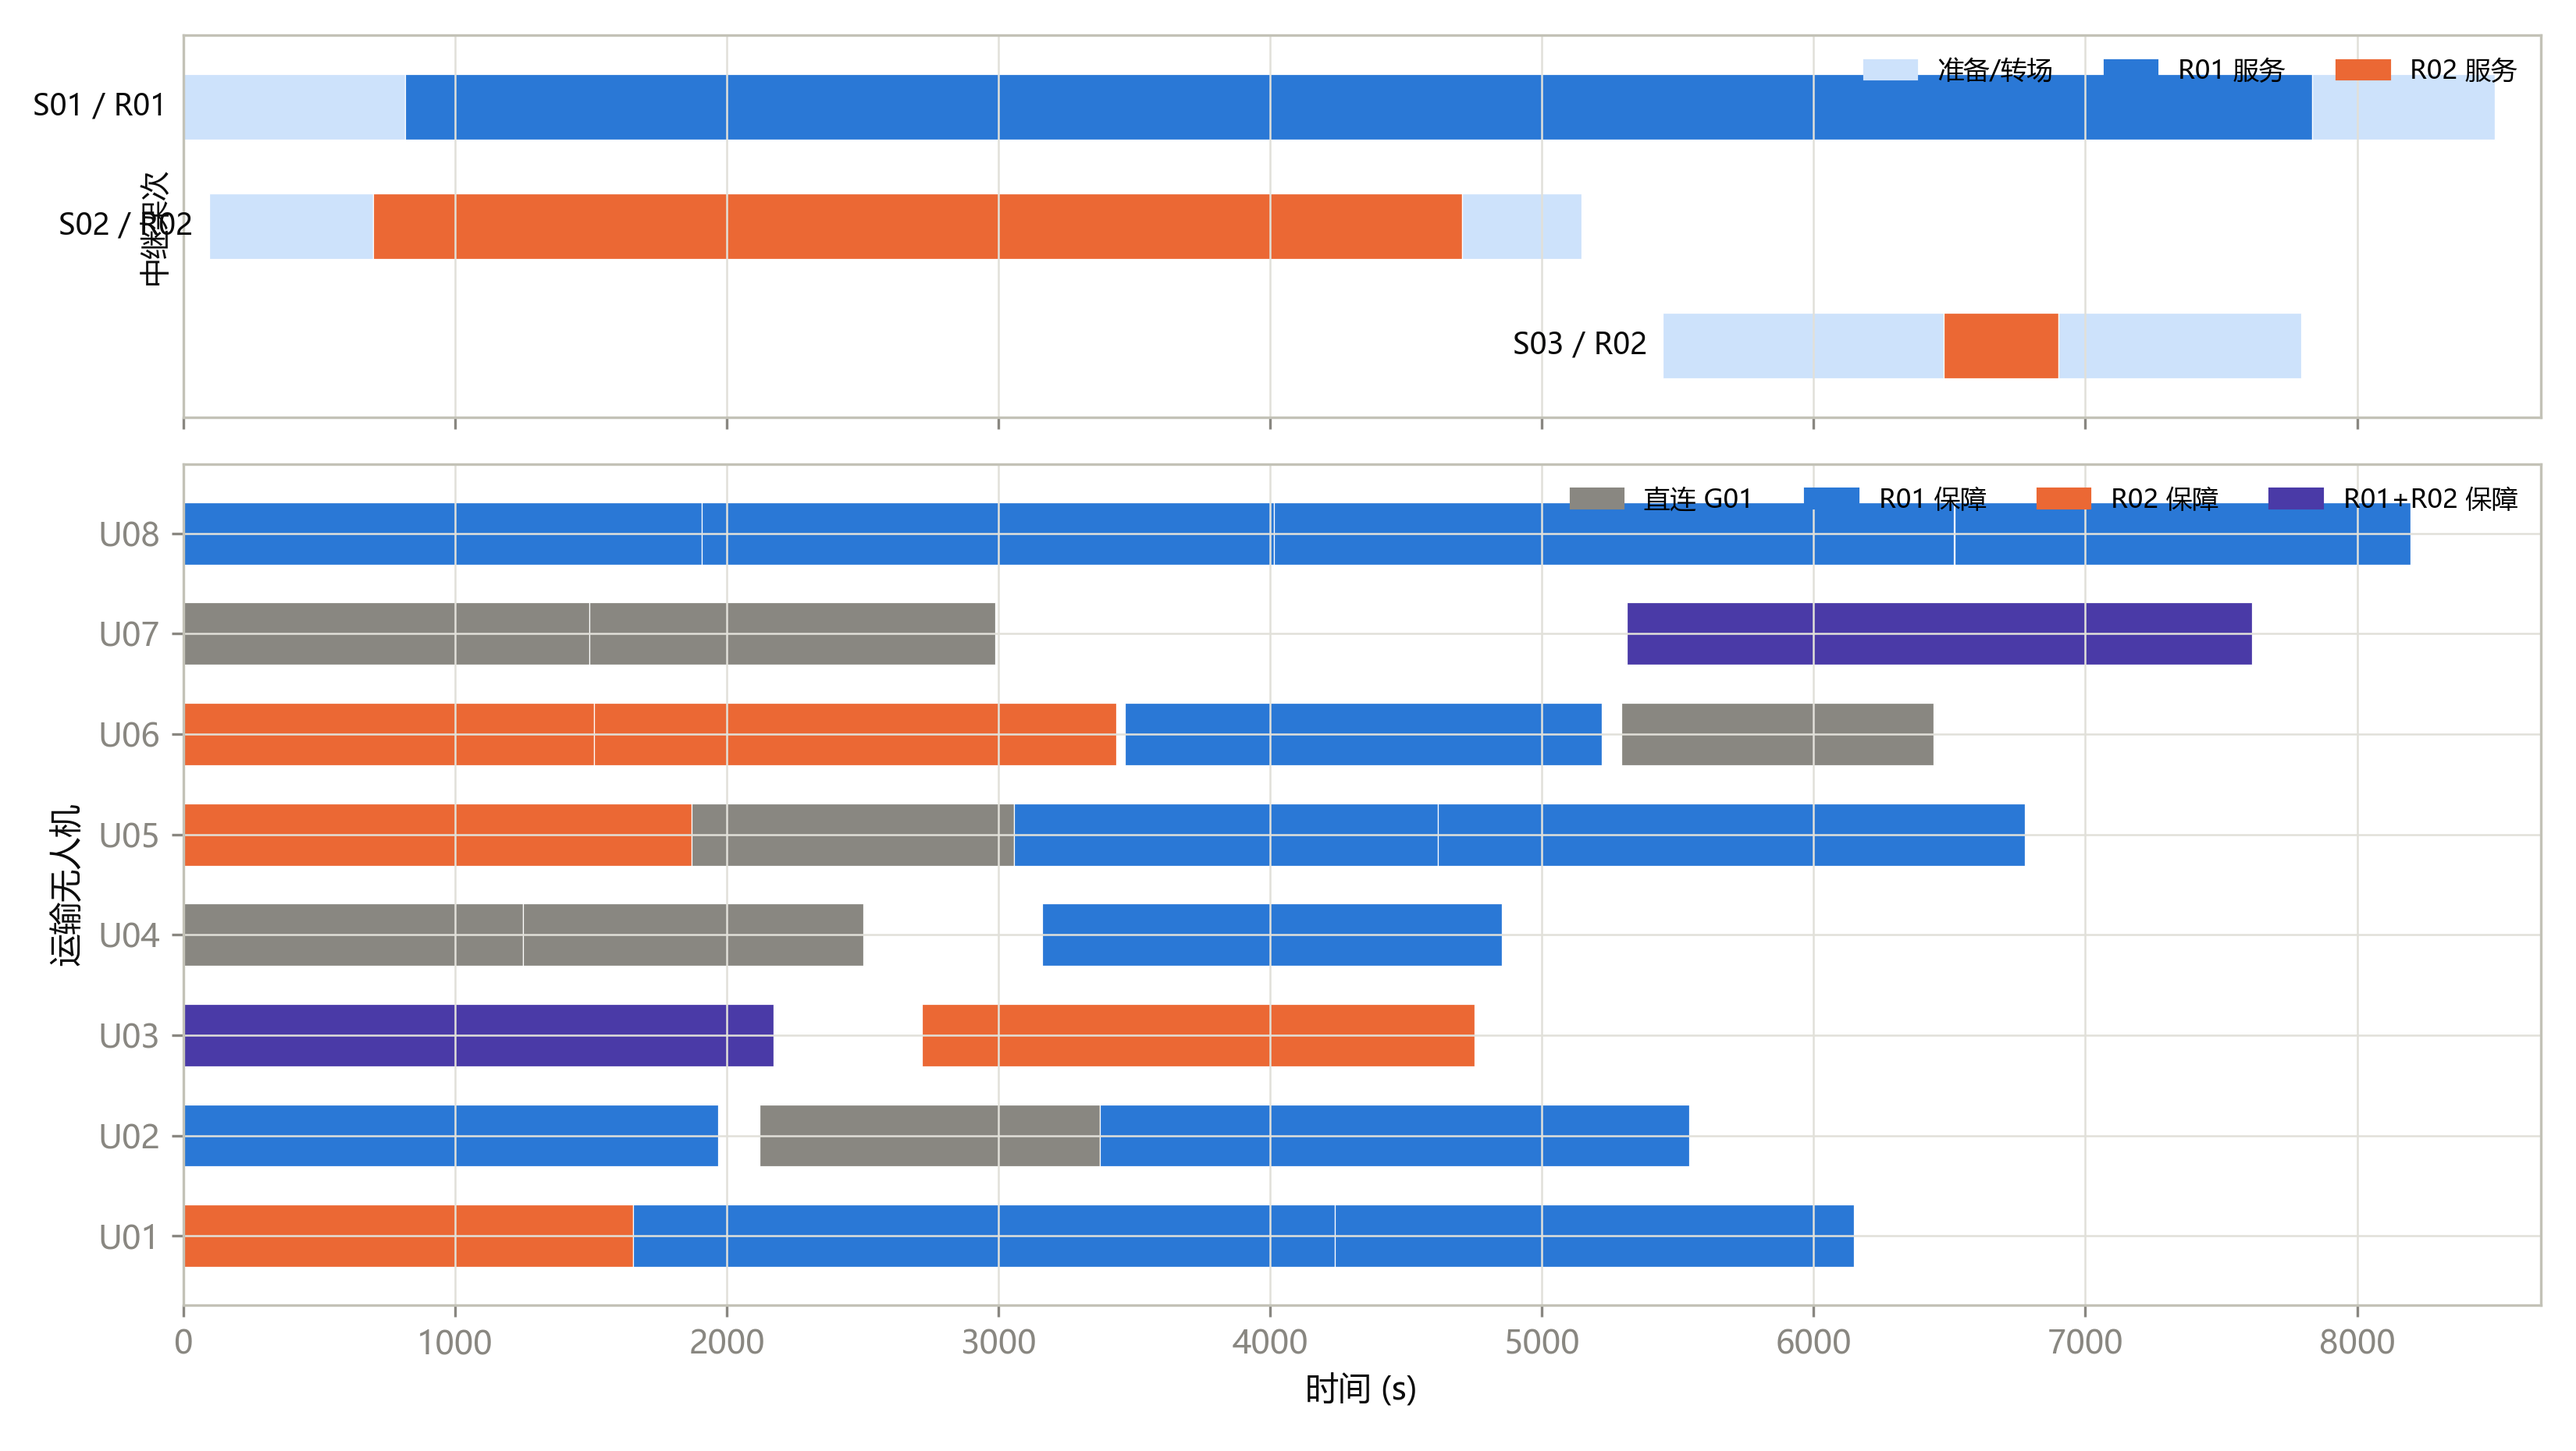
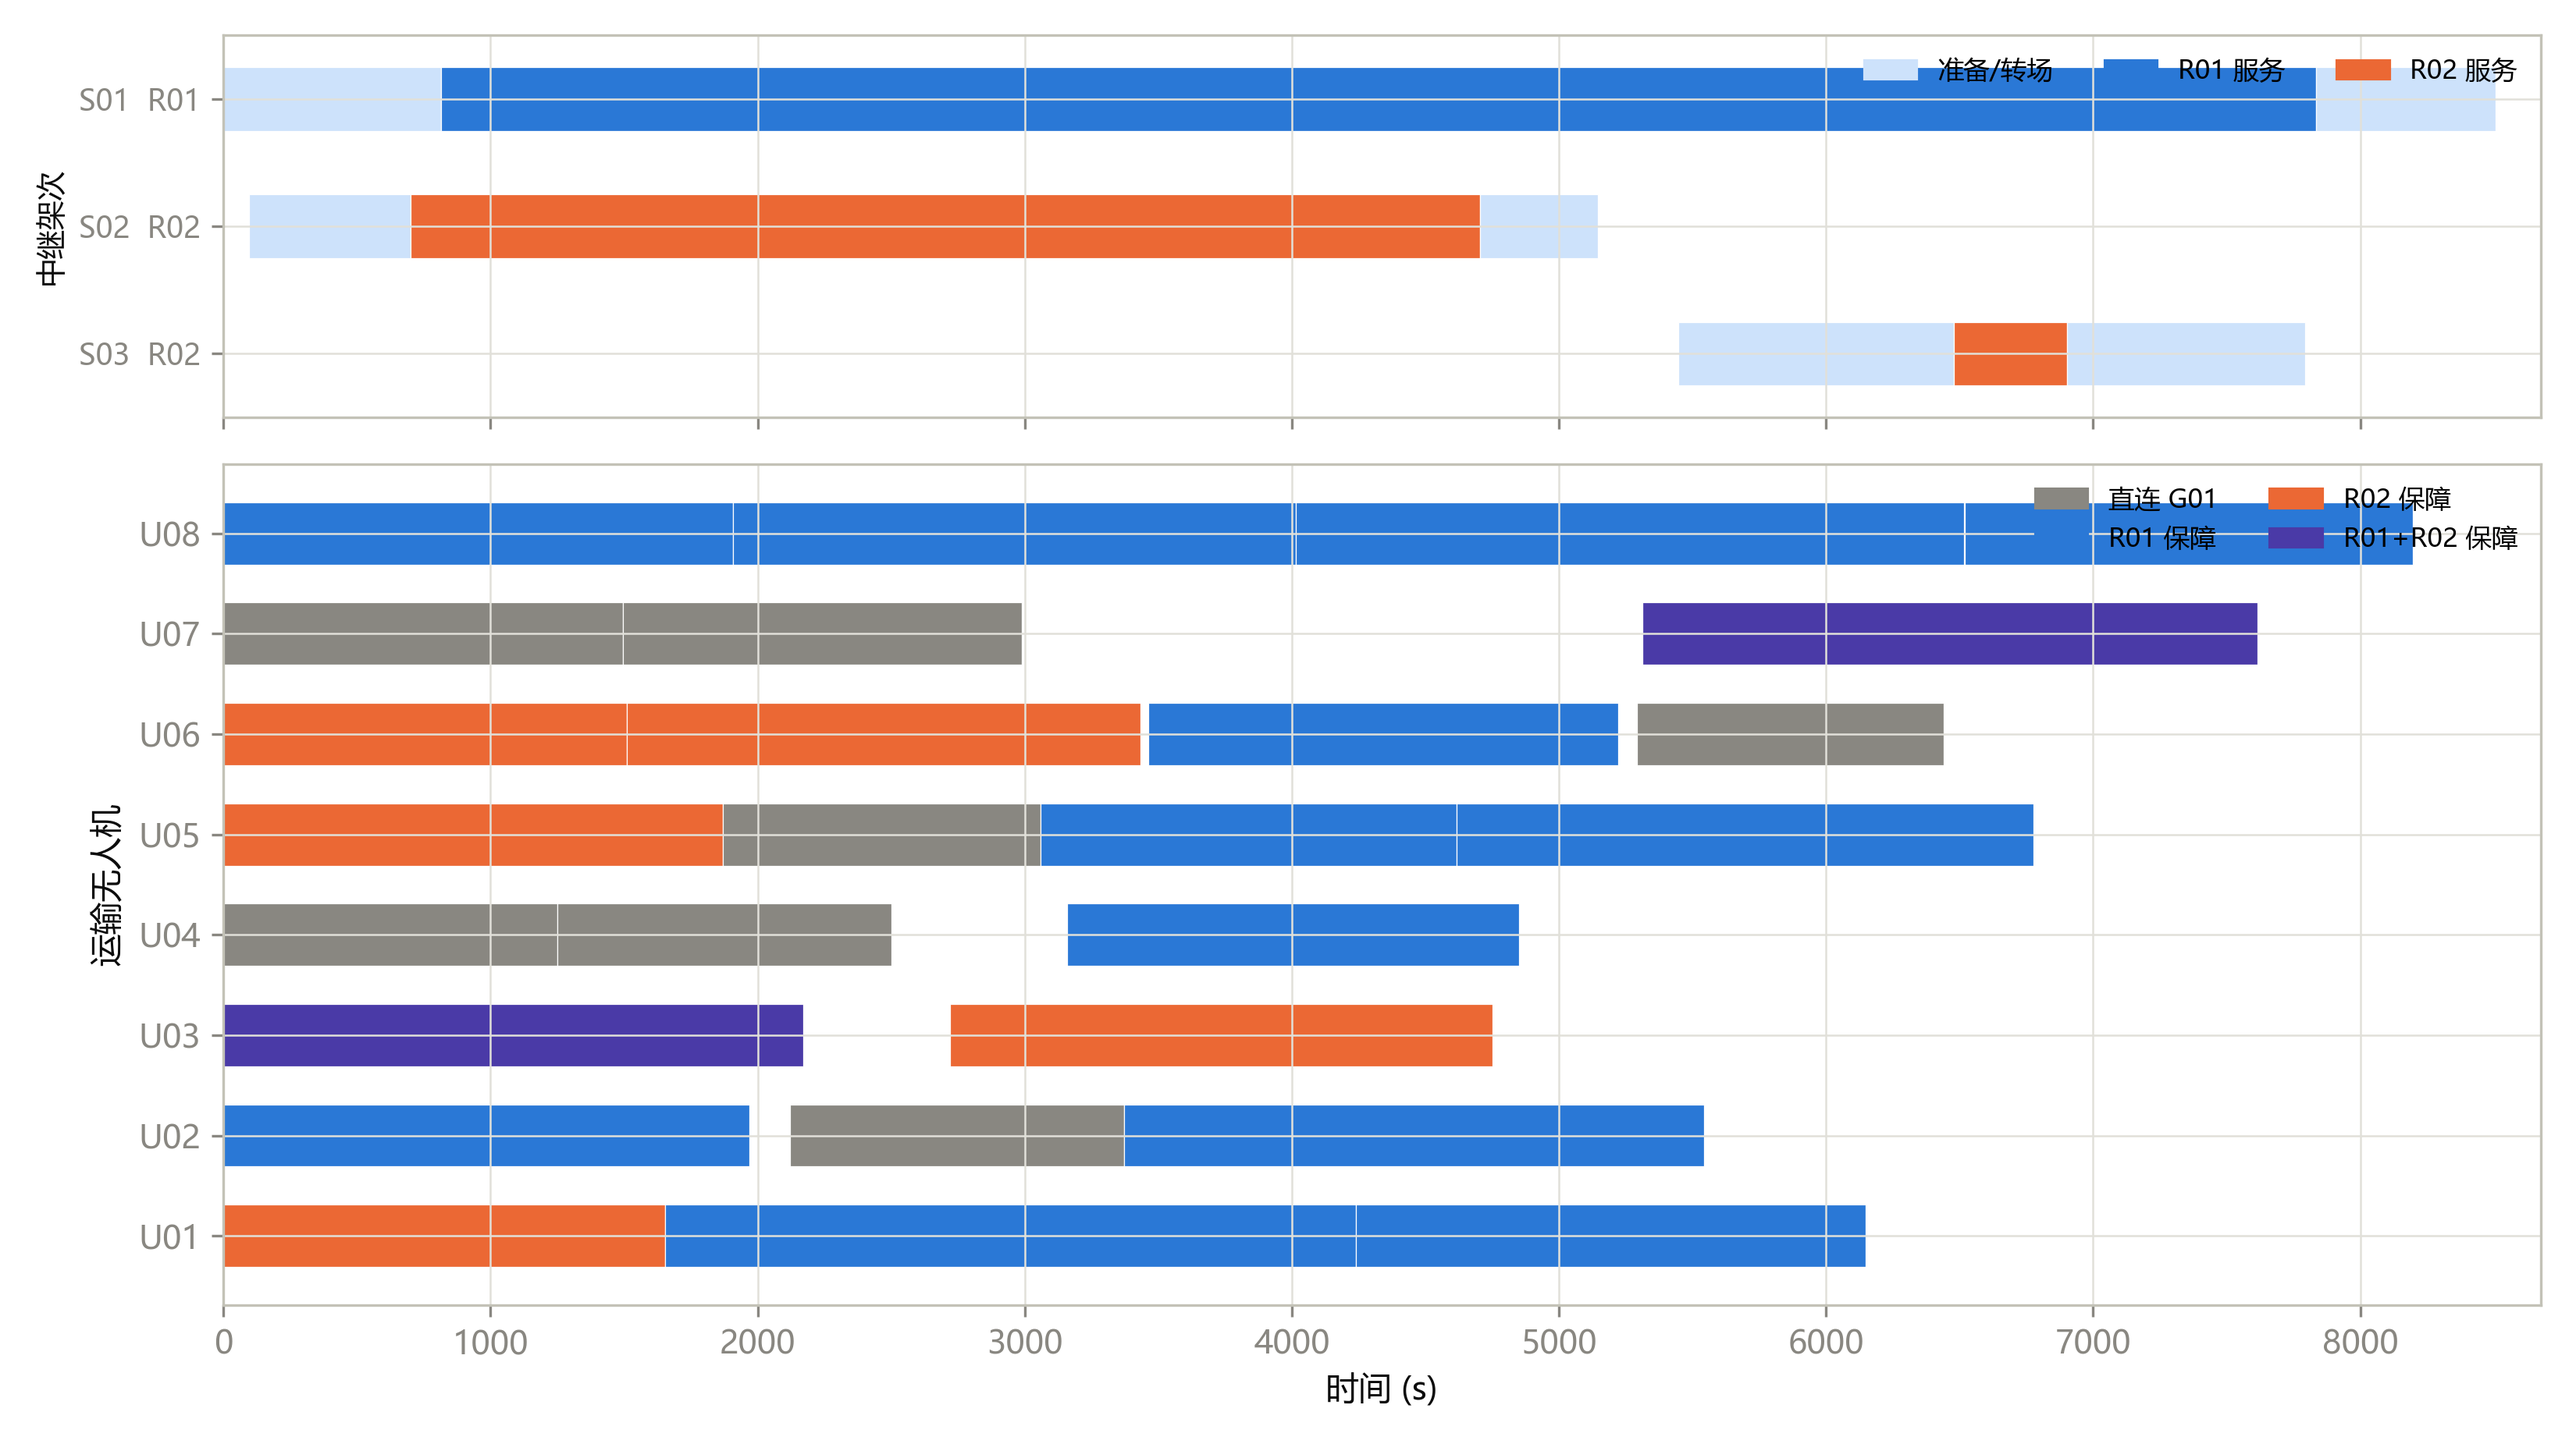
style(q3): fix joint-timeline sortie labels (y-tick labels, compact legend)

diff --git a/Q3/code/make_paper_figures.py b/Q3/code/make_paper_figures.py
@@ -69,25 +69,18 @@ def fig1():
                                    gridspec_kw={"height_ratios": [1, 2.2]})
 
     # --- relay sorties ---
-    ylabels = []
     for i, r in enumerate(relay):
         y = len(relay) - 1 - i
-        prep, to, ss, se, ret = (float(r["prep_start_s"]), float(r["takeoff_s"]),
-                                 float(r["service_start_s"]), float(r["service_end_s"]),
-                                 float(r["return_s"]))
+        prep, ss, se, ret = (float(r["prep_start_s"]), float(r["service_start_s"]),
+                             float(r["service_end_s"]), float(r["return_s"]))
         color = BLUE if r["relay_id"] == "R01" else ORANGE
-        # prep + outbound flight (light)
-        ax1.barh(y, ss - prep, left=prep, height=0.55, color=LIGHT, edgecolor="white", linewidth=0.3)
-        # service (colored)
-        ax1.barh(y, se - ss, left=ss, height=0.55, color=color, edgecolor="white", linewidth=0.3)
-        # return flight (light)
-        ax1.barh(y, ret - se, left=se, height=0.55, color=LIGHT, edgecolor="white", linewidth=0.3)
-        ax1.text(prep - 60, y, f"{r['sortie_id']} / {r['relay_id']}",
-                 ha="right", va="center", fontsize=9, color=INK)
-        ylabels.append(f"{r['sortie_id']} / {r['relay_id']}")
-    ax1.set_yticks([])
+        ax1.barh(y, ss - prep, left=prep, height=0.5, color=LIGHT, edgecolor="white", linewidth=0.3)
+        ax1.barh(y, se - ss, left=ss, height=0.5, color=color, edgecolor="white", linewidth=0.3)
+        ax1.barh(y, ret - se, left=se, height=0.5, color=LIGHT, edgecolor="white", linewidth=0.3)
+    ax1.set_yticks([len(relay) - 1 - i for i in range(len(relay))])
+    ax1.set_yticklabels([f"{r['sortie_id']}  {r['relay_id']}" for r in relay], fontsize=9)
     ax1.set_ylabel("中继架次", fontsize=9)
-    ax1.set_ylim(-0.6, len(relay) - 0.4)
+    ax1.set_ylim(-0.5, len(relay) - 0.5)
     # legend for relay panel
     import matplotlib.patches as mpatches
     ax1.legend(handles=[mpatches.Patch(color=LIGHT, label="准备/转场"),
@@ -112,7 +105,7 @@ def fig1():
                         mpatches.Patch(color=BLUE, label="R01 保障"),
                         mpatches.Patch(color=ORANGE, label="R02 保障"),
                         mpatches.Patch(color=VIOLET, label="R01+R02 保障")],
-               loc="upper right", frameon=False, fontsize=8, ncol=4)
+               loc="upper right", frameon=False, fontsize=8, ncol=2)
     fig.tight_layout()
     fig.savefig(FIG / "q3_fig1_joint_timeline.png", dpi=300)
     plt.close(fig)
